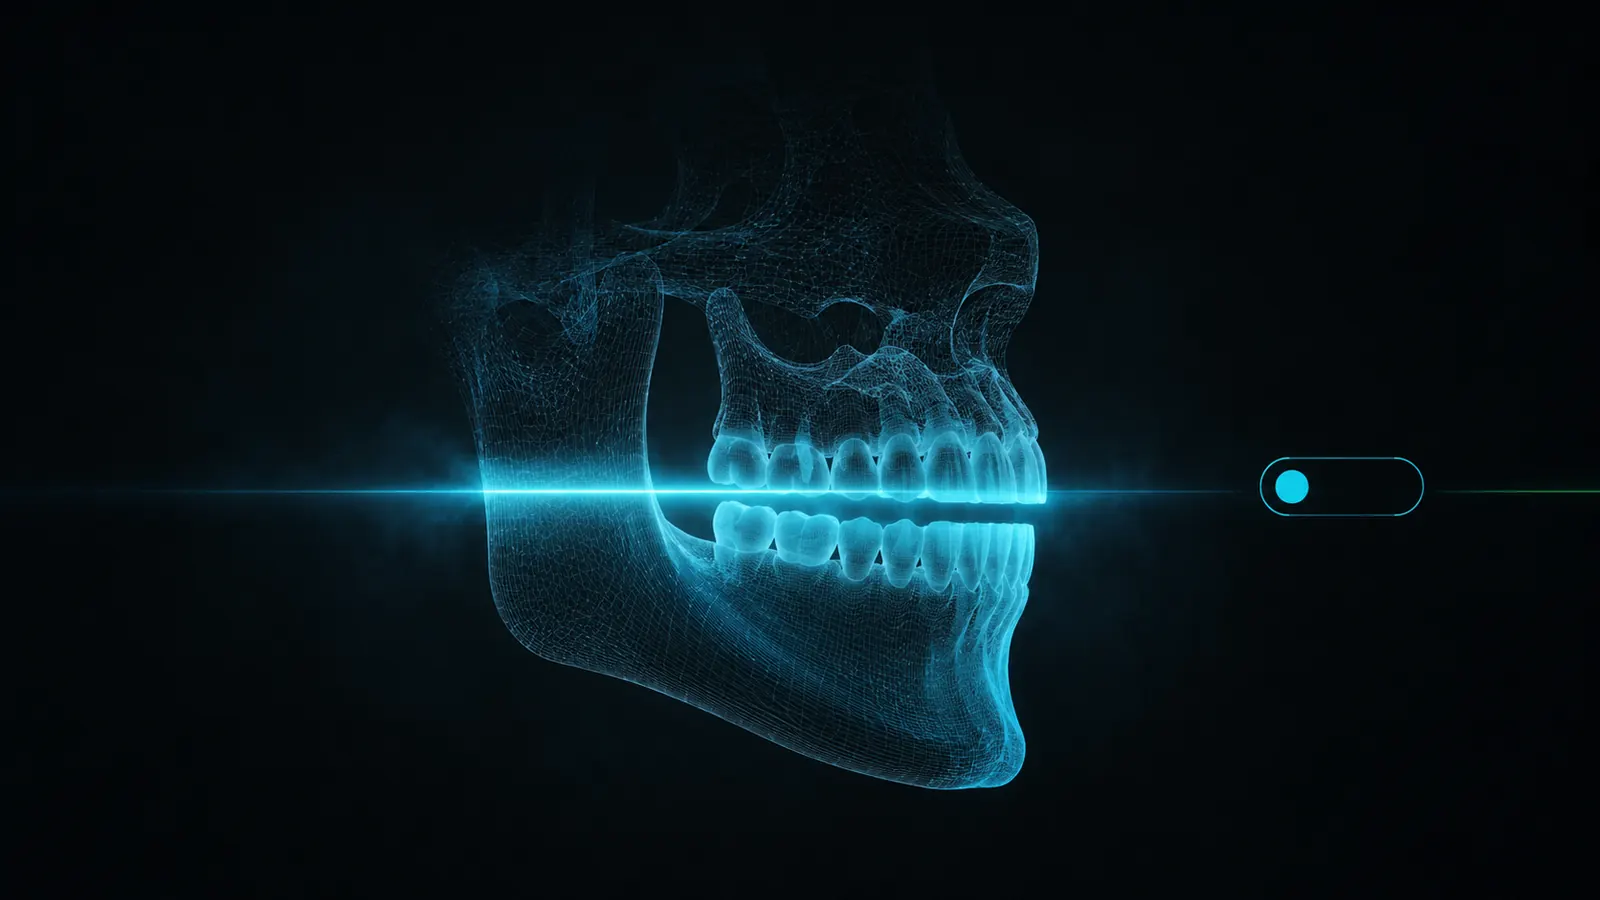
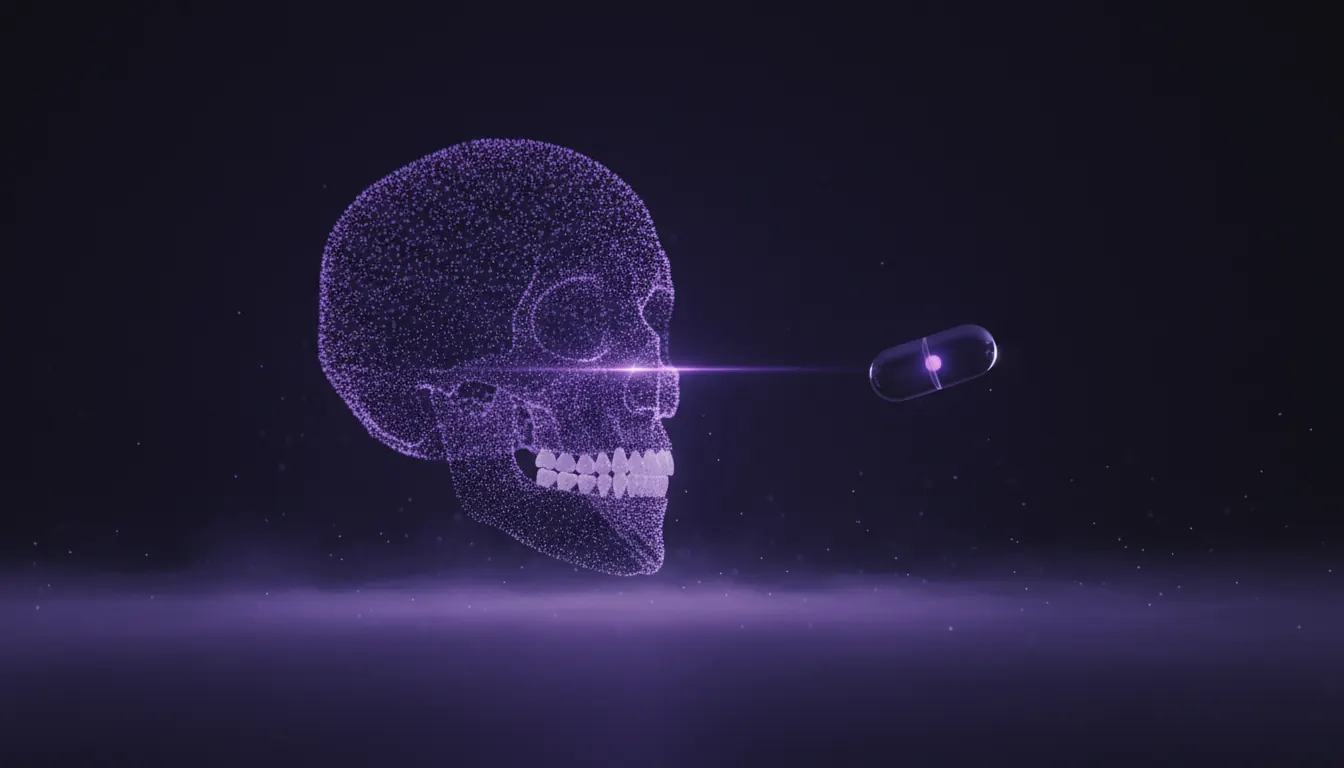
Recolor project and post artwork to the four-discipline palette
Every hero image now carries its discipline accent: AIE emerald, FDE
amber, MLE violet, SDE blue. Eleven images re-rolled via the nano
banana batch script (same concepts, new hues), atmos glows and post
tag tones updated to match, and the JobPilot/report-card images now
go through the compression pass.

diff --git a/src/pages/posts/pipeline-ghosting.md b/src/pages/posts/pipeline-ghosting.md
@@ -6,7 +6,7 @@ description: "Runs showed ✅ done while emails never sent, rows never appeared,
 img_path: "/pipeline-ghosting.png"
 img_alt: "Run dashboard with a green status pill that hides amber and red failures underneath"
 tag: "Process"
-tone: "amber"
+tone: "blue"
 stats:
   - value: "51 / 0 / 0"
     label: "green / amber / red in the consistency audit"

diff --git a/src/pages/posts/jobpilot-v2.md b/src/pages/posts/jobpilot-v2.md
@@ -6,7 +6,7 @@ description: "JobPilot, one day later: a ResumeWorded-style judge that scores ev
 img_path: "/jobpilot-judge.png"
 img_alt: "A resume being graded by a glowing rubric machine, red marks turning green"
 tag: "Process"
-tone: "amber"
+tone: "emerald"
 stats:
   - value: "73 → 82"
     label: "real ResumeWorded score, one calibration loop in"

diff --git a/src/pages/posts/recsys-spark-bigdata.md b/src/pages/posts/recsys-spark-bigdata.md
@@ -6,7 +6,7 @@ description: "I built a recommendation system that handles 22 million records: o
 img_path: "/customer-segmentation.png"
 img_alt: "A big pile of data narrowed down to a short, ranked list of recommendations"
 tag: "MLOps"
-tone: "cyan"
+tone: "violet"
 stats:
   - value: "22M+"
     label: "records, handled without melting a laptop"

diff --git a/src/pages/posts/resnet-under-5m.md b/src/pages/posts/resnet-under-5m.md
@@ -6,7 +6,7 @@ description: "A CIFAR-10 competition across 55 teams, a hard 5M-parameter cap, a
 img_path: "/resnet-compact.png"
 img_alt: "A compact ResNet learning from rotated, cropped, flipped CIFAR-10 images"
 tag: "Research"
-tone: "emerald"
+tone: "violet"
 stats:
   - value: "#1 / 55"
     label: "on the professor's secret unseen test set"

diff --git a/src/pages/posts/loan-radar-mlops.md b/src/pages/posts/loan-radar-mlops.md
@@ -6,7 +6,7 @@ description: "A loan-scoring service where I built the unglamorous parts on purp
 img_path: "/loan-radar.png"
 img_alt: "Loan Radar architecture — training, lineage, gates, inference, retraining"
 tag: "MLOps"
-tone: "cyan"
+tone: "violet"
 stats:
   - value: "0.79 ms"
     label: "median single-caller latency"

diff --git a/src/pages/posts/cbct-scan-validator.md b/src/pages/posts/cbct-scan-validator.md
@@ -6,7 +6,7 @@ description: "A vendor wanted $98K up front and $26K a year to flag bad dental C
 img_path: "/cbct-validator.png"
 img_alt: "CBCT volume slices, multi-task head, verdict pipeline"
 tag: "MLOps"
-tone: "cyan"
+tone: "violet"
 stats:
   - value: "$50/mo"
     label: "vs the $124K year-one vendor quote"

diff --git a/src/pages/posts/cowork-dashboard.md b/src/pages/posts/cowork-dashboard.md
@@ -6,7 +6,7 @@ description: "Two clinics, three messy boards, and a patient-to-lead match that 
 img_path: "/cowork-dashboard.png"
 img_alt: "Cowork Dashboard scorecards, trend chart, and funnel"
 tag: "MLOps"
-tone: "blue"
+tone: "amber"
 stats:
   - value: "49% → 99%"
     label: "patient-to-lead linkage"
